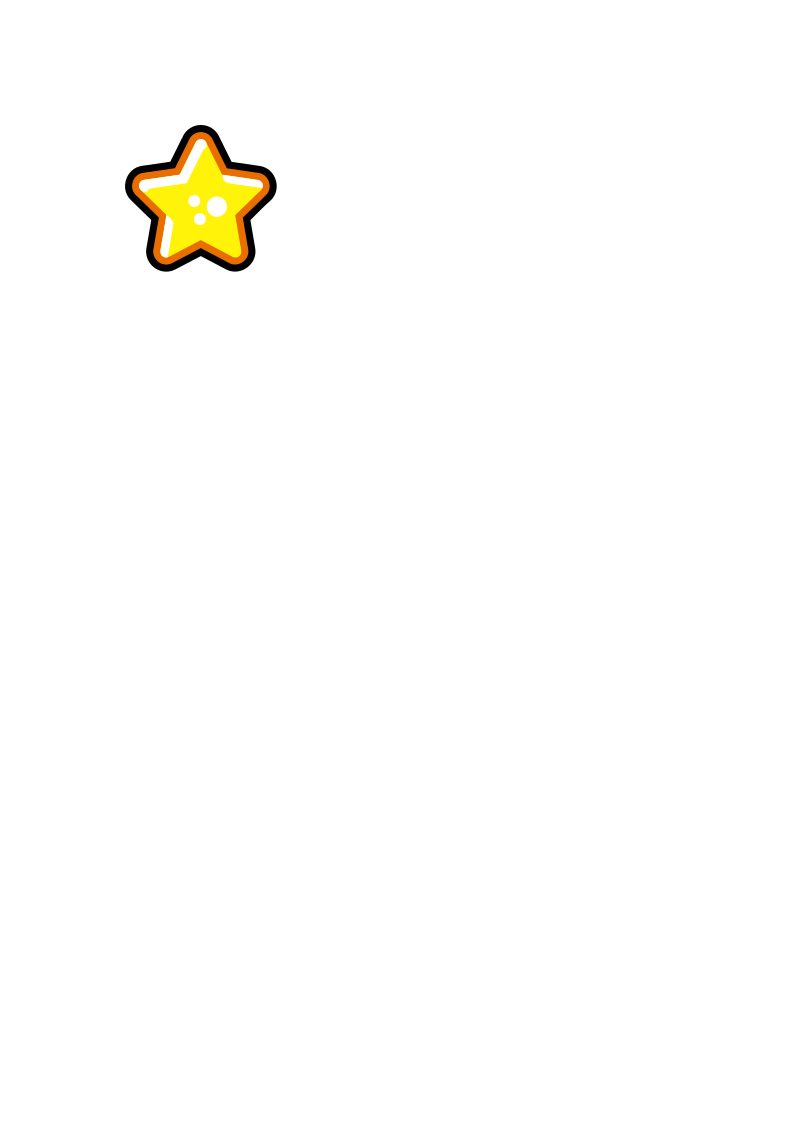
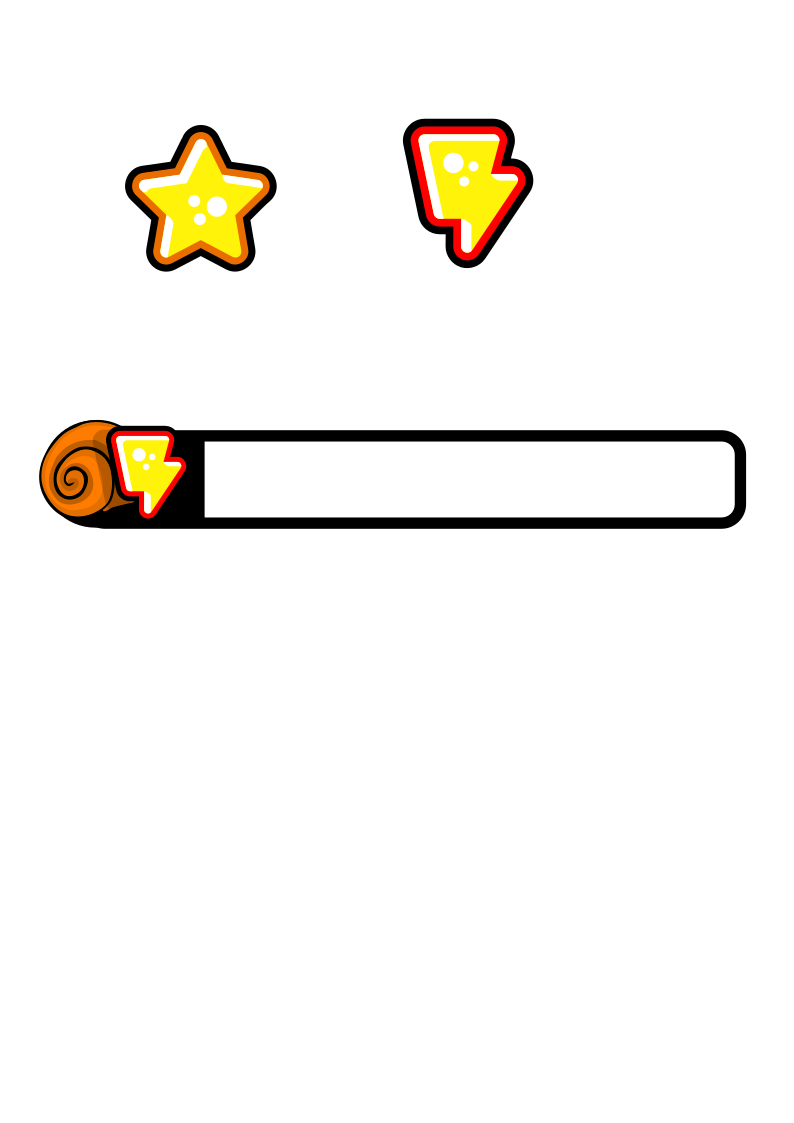
feat: add energy meter

Changed region(s): [[0.0302, 0.374, 0.9673, 0.4987], [0.5139, 0.0935, 0.6952, 0.2493]]

diff --git a/src/view/EnergyBar.js b/src/view/EnergyBar.js
@@ -1,0 +1,39 @@
+import { Graphics, Sprite } from "pixi.js";
+
+export default class EnergyBar extends Sprite {
+  constructor() {
+    super()
+    this.bg = new Graphics()
+    this.bg.beginFill(0x000000)
+    this.bg.drawRect(49, 6, 144, 23)
+    this.bg.endFill()
+    this.addChild(this.bg)
+
+    this.progress = new Graphics()
+    this.progress.beginFill(0xffff00)
+    this.progress.drawRect(0, 6, 144, 23)
+    this.progress.endFill()
+    this.progress.beginFill(0xffffff)
+    this.progress.drawRect(0, 6, 144, 5)
+    this.progress.endFill()
+    this.progress.beginFill(0xffaa00)
+    this.progress.drawRect(0, 26, 144, 3)
+    this.progress.endFill()
+    this.progress.x = 49
+    this.addChild(this.progress)
+
+    this.face = Sprite.from('energy.png')
+    this.addChild(this.face)
+
+    this._value = 1
+  }
+
+  set value(value) {
+    this._value = value
+    this.progress.scale.x = value
+  }
+
+  get value() {
+    return this._value
+  }
+}

diff --git a/src/Simulation.js b/src/Simulation.js
@@ -4,6 +4,7 @@ import Ground from './ground/Ground.js'
 import SimContainer from './sim/SimContainer.js';
 import Snail, { SNAIL_MIN_SPEED } from './Snail.js';
 import Background from './view/Background.js';
+import EnergyBar from './view/EnergyBar.js';
 const Vec2 = plank.Vec2;
 
 export default class Simulation extends SimContainer {
@@ -19,9 +20,16 @@ export default class Simulation extends SimContainer {
     this.zoom = 50
 
     this.statusText = new Text('Score: 0', {fontFamily : 'Arial', fontSize: 24, fill : 0x000000});
+    this.statusText.y = 50
+    this.statusText.x = 20
     this.view.addChild(this.statusText)
     this.yShift = 0.5
     this.groundWidth = 500
+
+    this.energyBar = new EnergyBar()
+    this.energyBar.x = 10;
+    this.energyBar.y = 10;
+    this.view.addChild(this.energyBar)
   }
 
   set status(text) {

diff --git a/src/Snail.js b/src/Snail.js
@@ -53,12 +53,14 @@ export default class Snail extends SimObject {
   }
 
   update() {
+    const powerConsumption = 0.02 + this.body.getPosition().x/200000
 
-    this.energy = Math.max(0, this.energy - 0.05)
+    this.energy = Math.max(0, this.energy - powerConsumption)
 
     this.pusher.setPosition(this.body.getPosition());
     if(this.run && this.energy > 0) {
       this.body.applyForce(Vec2(0, -30), this.body.getPosition())
+      this.energy = Math.max(0, this.energy - powerConsumption)
     }
     const snailSpeed = this.body.getLinearVelocity().x
 

diff --git a/src/index.js b/src/index.js
@@ -30,7 +30,8 @@ document.addEventListener("DOMContentLoaded", (event) => {
       app.renderer.width,
       app.renderer.height
     )
-    sim.status = `Distance: ${sim.snail.distance.toFixed(1)}m, Energy: ${sim.snail.energy.toFixed(1)}`
+    sim.energyBar.value = sim.snail.energy/100
+    sim.status = `Distance: ${sim.snail.distance.toFixed(1)}m`
   })
 
 

diff --git a/src/ground/segments/sineSegment.js b/src/ground/segments/sineSegment.js
@@ -26,7 +26,7 @@ export default function sineSegment(world, segment) {
     )
     segment.addChild(edge)
     if(segment.data.coins && i > stepCount*0.2  && i < stepCount*0.5  ) {
-      coin = new Coin(world, edge.start.x, edge.start.y+1)
+      coin = new Coin(world, edge.start.x, edge.start.y+0.8)
       segment.addChild(coin)
     }
   }
